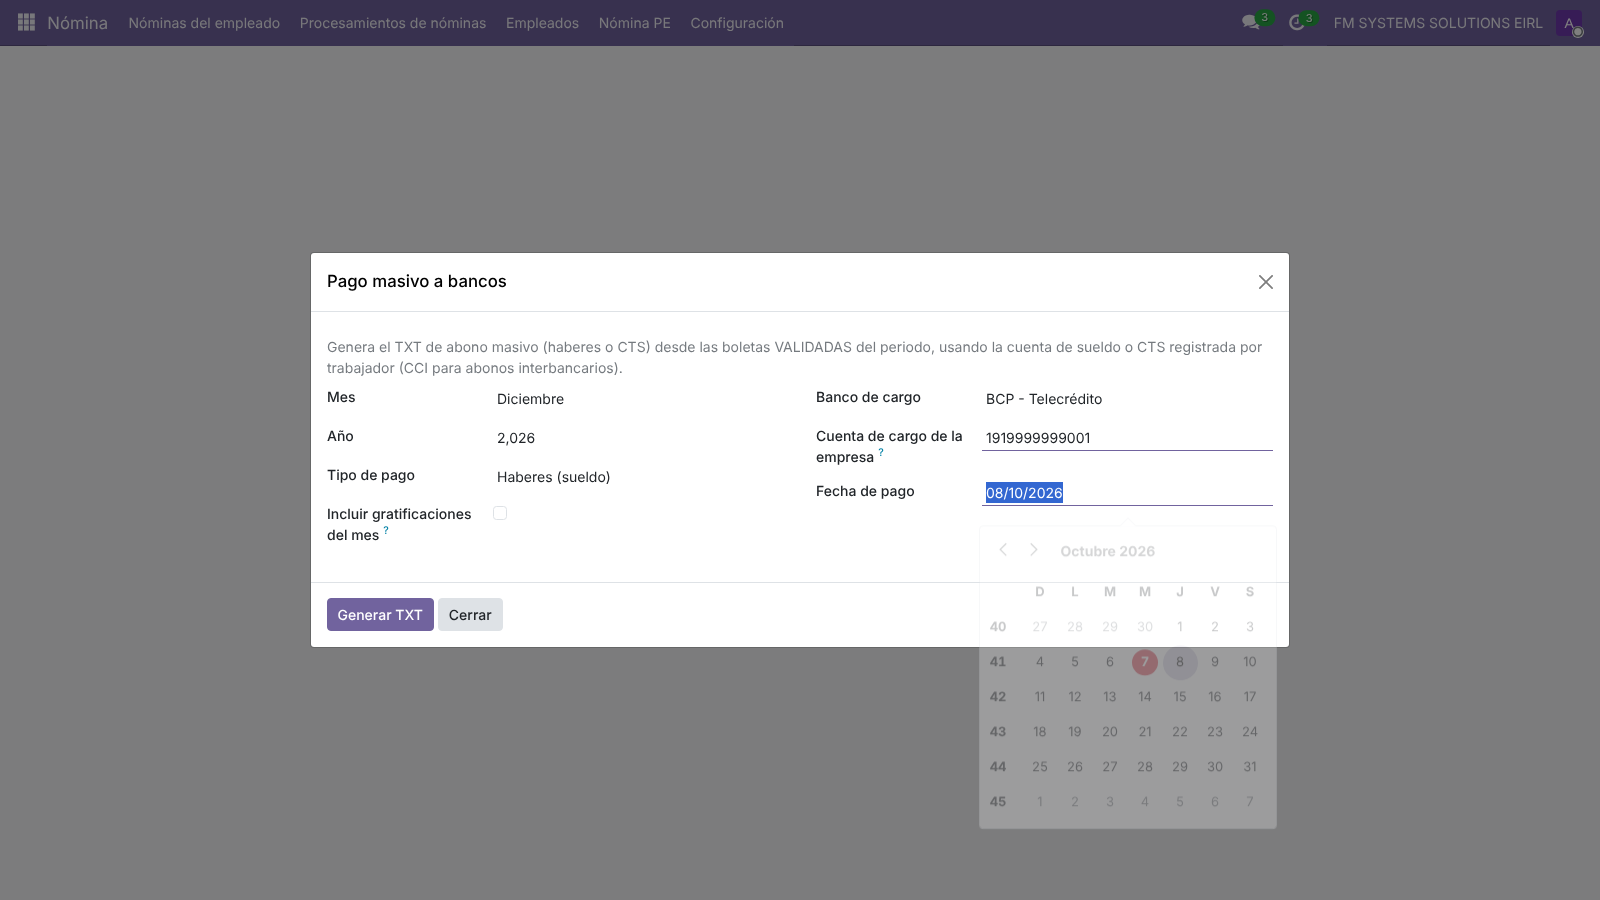
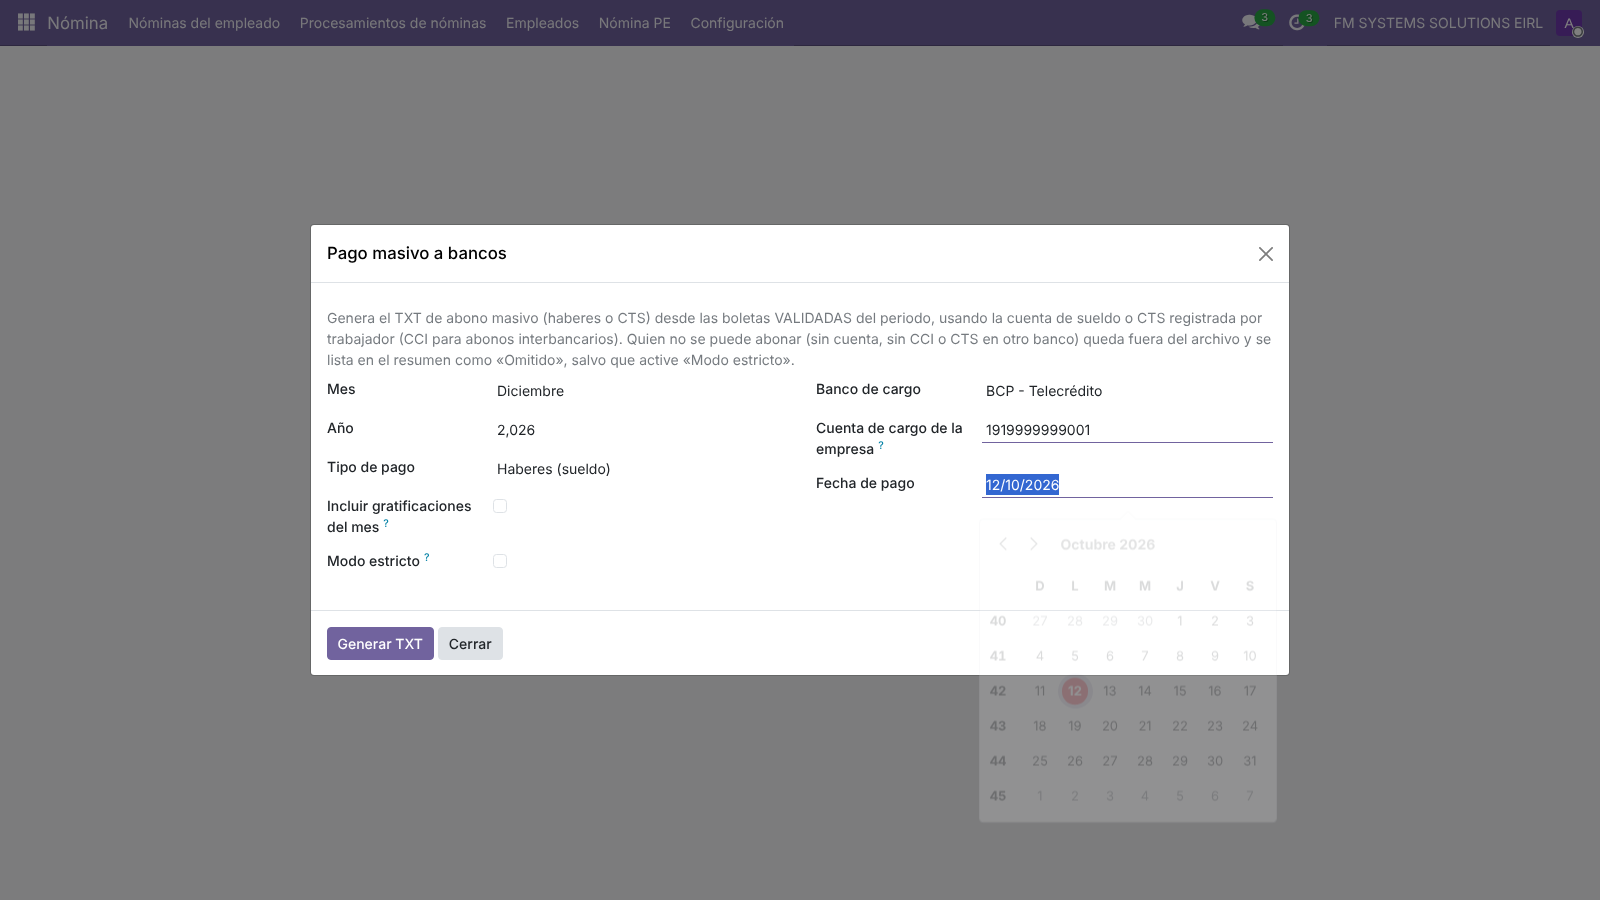
Nómina CE: re-medición del lote 1 de mejoras (validado; PLAME-RXH bloqueado por sire_compra_8_5)
Claude-Session: https://claude.ai/code/session_01ABAUf5bg1VA34yxUfsbyyW

diff --git a/manuales_ce/scripts/p21_reportes.js b/manuales_ce/scripts/p21_reportes.js
@@ -13,6 +13,7 @@ const TAREAS = [
   { nombre: 'p21_04_afpnet', accion: 1042, mes: 'Diciembre', anio: 2026, boton: 'Generar Excel AFPnet' },
   { nombre: 'p21_05_bancos_sueldo', accion: 1041, mes: 'Diciembre', anio: 2026, cuenta: '1919999999001', boton: 'Generar TXT' },
   { nombre: 'p21_06_bancos_cts', accion: 1041, mes: 'Noviembre', anio: 2026, tipo: 'CTS', cuenta: '1919999999001', boton: 'Generar TXT' },
+  { nombre: 'p21_07_bancos_scotiabank', accion: 1041, mes: 'Diciembre', anio: 2026, banco: 'Scotiabank', cuenta: '1919999999001', boton: 'Generar TXT' },
 ];
 
 (async () => {
@@ -29,6 +30,7 @@ const TAREAS = [
         await ui.seleccion(pagina, f, 'mes', t.mes);
         await ui.escribir(f, 'anio', t.anio);
         if (t.tipo) await ui.seleccion(pagina, f, 'tipo', t.tipo);
+        if (t.banco) await ui.seleccion(pagina, f, 'banco', t.banco);
         if (t.cuenta) await ui.escribir(f, 'cuenta_cargo', t.cuenta);
         if (t.casilla) await ui.casilla(f, t.casilla, true);
         await ui.captura(pagina, `${t.nombre}_asistente`);

diff --git a/manuales_ce/evidencias/lote1/REMEDICION_LOTE1.md b/manuales_ce/evidencias/lote1/REMEDICION_LOTE1.md
@@ -1,0 +1,30 @@
+# Re-medición del lote 1 de mejoras (contable19, 2026-10-12)
+
+Versiones instaladas: solse_pe_payroll_base 19.0.1.8.2 · solse_pe_payroll_ce 19.0.1.9.4 · solse_pe_payroll_ce_demo 19.0.2.5.0.
+
+| Qué (tabla «Entrega del lote 1») | Esperado | Medido | Resultado |
+|---|---|---|---|
+| Laboratorio NOMINA | 100 %; Ana AFP_PRI_001 173,62 y NET 11 838,63 | 100 %; 173,62 y 11 838,63 | OK |
+| Laboratorio ASISTENCIA | 100 % | 100 % | OK |
+| Laboratorio PLAME-RXH y PLAME | 100 % | **No corren**: falla «sembrar» de PLAME-RXH con `Wrong value for account.move.nd_exoneracion: '00'` | BLOQUEADO (fuera del lote, ver abajo) |
+| TXT BCP haberes dic-2026 | Lucía «2A» con su cuenta y «S»; mayúsculas sin tildes; ASCII | `2A19199999901001 … LUCIA FERNANDA RAMOS TICONA … 3825.96S`; Héctor 2B por CCI (Interbank); ASCII sí | OK |
+| TXT BCP CTS nov-2026 | 1 línea + «Omitidos (1)» con Héctor (Interbank) | 1 línea Lucía 2 695,92 + «Omitidos (1) por S/ 1283.33 — NO van en el archivo» + banda roja | OK |
+| Trabajador sin cuenta de sueldo | TXT con los demás + omitidos; con «Modo estricto», error con la lista | TXT con Lucía (3 825,96) + omitido Héctor 1 914,00; estricto: error con la lista | OK |
+| Scotiabank | formato propio, banda amarilla, «AÚN NO ESTÁ VALIDADO» | formato propio (no 0104), banda amarilla y aviso | OK |
+| RMV «1,230» | «Use punto decimal y sin separador de miles…» | mensaje exacto; además «-5», tasa «13» y comisión incompleta rechazados; valores válidos se guardan | OK |
+| Boleta AFP ene-2025 sin carga manual | calcula | las vigencias 2025 vienen ahora de la data (xmlid `param_pe_afp_comision_flujo_2025`, `param_pe_afp_rma_2025t1…`); la copia de ene-2025 calcula | OK (no se probó una base nueva) |
+| ASF_001 oct-2026 | 123,00 | 123,00 | OK |
+| RMA vigente hoy | 12 732,70 desde 2026-10-01 | 12 732,70 (8 vigencias trimestrales 2025-2026) | OK |
+| anio_completo_fm.json | sin diferencias | 64 boletas recalculadas en copias borrador: 0 diferencias (copias borradas) | OK |
+| Log «C-02:» / «V-01:» | revisar | sin acceso al log del servidor; las vigencias manuales de contable19 quedaron adoptadas (tienen xmlid, sin duplicados) y no hay actividades V-01 en los parámetros | revisar el log en el servidor |
+
+## Bloqueo de PLAME-RXH (no es del lote de nómina)
+
+En la misma actualización subió `solse_pe_sire_compra_8_5` de 19.0.2.4 a 19.0.2.5 y su tabla 33
+(`nd_exoneracion`, «Exoneración aplicada») pasó de `00/01` a `1…6`. `solse_pe_plame_rxh_demo` 19.0.2.2.0
+(`wizard/plame_demo_sembrar.py:527`) sigue sembrando `'nd_exoneracion': '00'` para el prestador no domiciliado.
+Consecuencia: PLAME-RXH no siembra y PLAME (que lo requiere) tampoco corre. El «limpiar» previo borró los
+datos de PLAME-RXH del laboratorio.
+
+Evidencias: archivos TXT en esta carpeta; `remedicion_anio_completo.json`; capturas
+`p21_06_bancos_cts_resultado.png` y `p21_07_bancos_scotiabank_resultado.png`.
